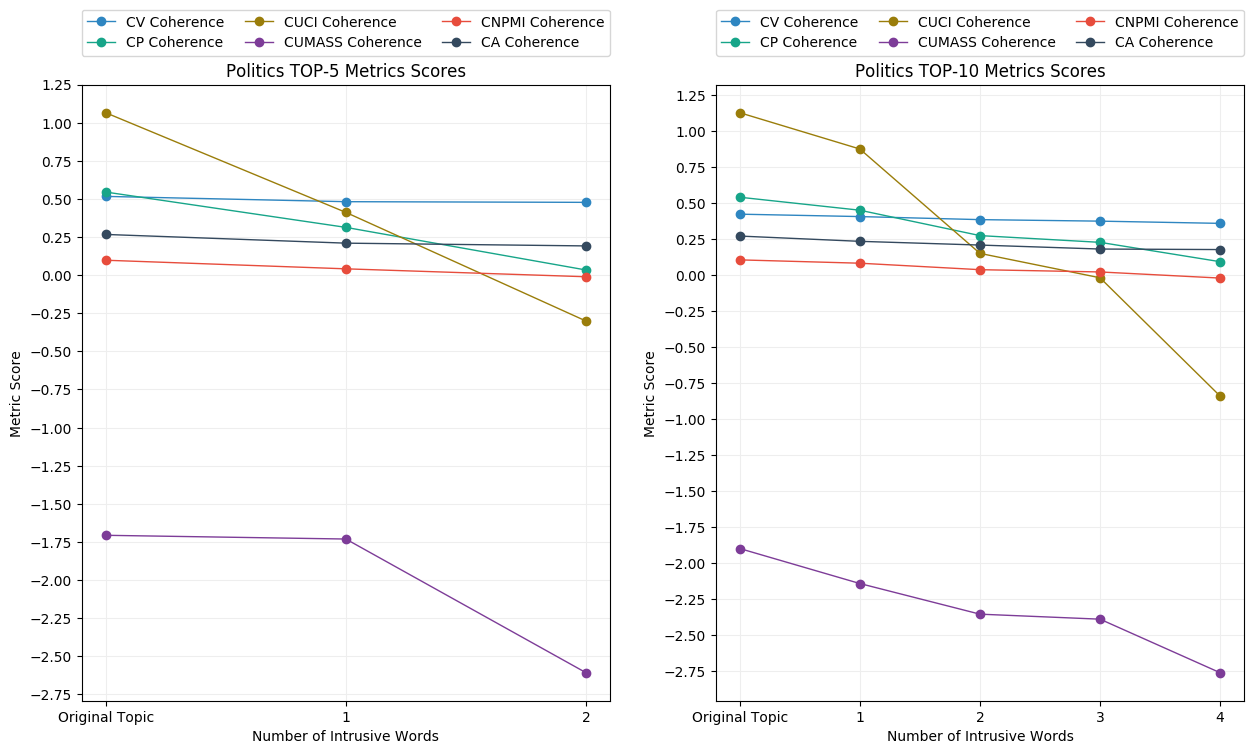
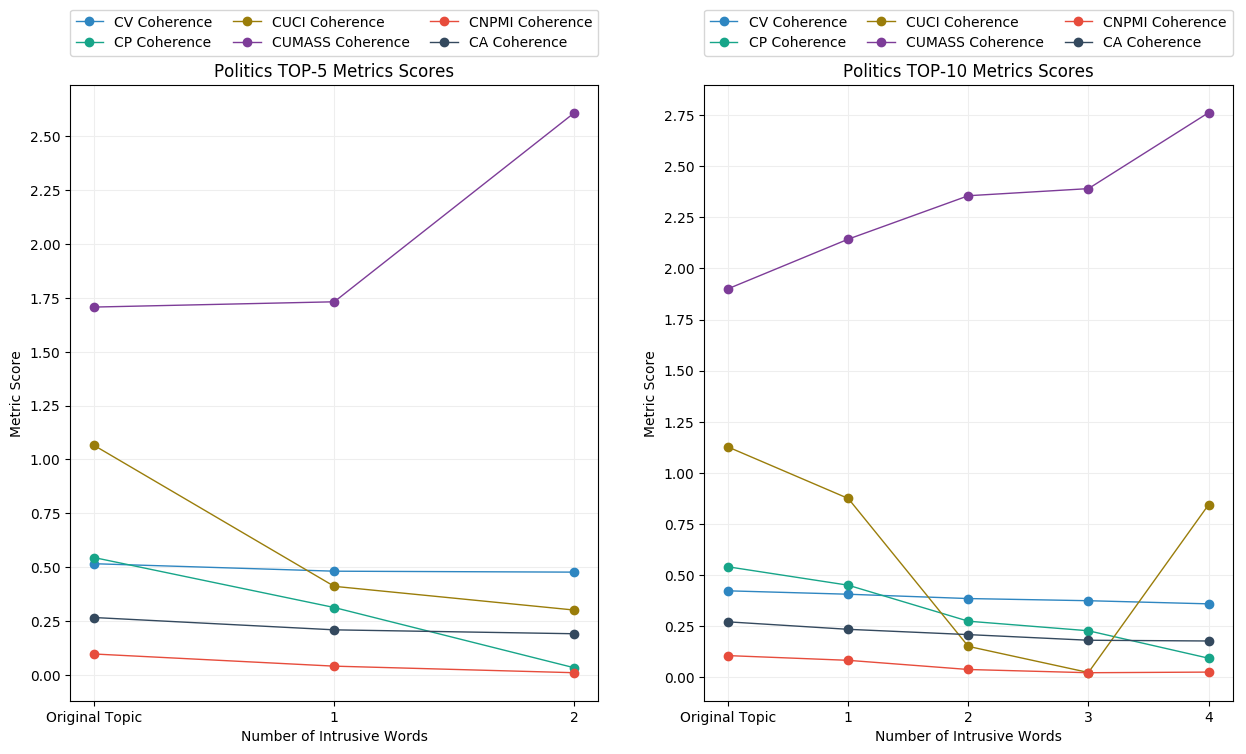
Using the absolute value for umass.

diff --git a/graphics/plot_graphic.py b/graphics/plot_graphic.py
@@ -20,7 +20,7 @@ def plot_graphic(top5, top10, topic):
     plt.xticks(range(0, 3), ['Original Topic', '1', '2'])
     plt.yticks(np.arange(-5,5, 0.25))
     for metric in range(0,6):
-        plot1.plot(range(0,3), top5[:,[metric]], 'o-', color=COLORS[metric], linewidth = 1, label=METRICS[metric]+' Coherence')
+        plot1.plot(range(0,3), abs(top5[:,[metric]]), 'o-', color=COLORS[metric], linewidth = 1, label=METRICS[metric]+' Coherence')
     plt.legend(bbox_to_anchor=(0., 1.02, 1., .102), loc=0, ncol=3, mode="expand", borderaxespad=0.)
 
     ## Figure 2 will plot the top-10 metrics scores:
@@ -32,7 +32,7 @@ def plot_graphic(top5, top10, topic):
     plt.xticks(range(0, 5), ['Original Topic', '1', '2', '3', '4'])
     plt.yticks(np.arange(-5,5, 0.25))
     for metric in range(0,6):
-        plot2.plot(range(0,5), top10[:,[metric]], 'o-', color=COLORS[metric], linewidth = 1, label=METRICS[metric]+' Coherence')
+        plot2.plot(range(0,5), abs(top10[:,[metric]]), 'o-', color=COLORS[metric], linewidth = 1, label=METRICS[metric]+' Coherence')
     plt.legend(bbox_to_anchor=(0., 1.02, 1., .102), loc=0, ncol=3, mode="expand", borderaxespad=0.)
 
     ## Saves the graphics from Figure 1 into the plots folder:
